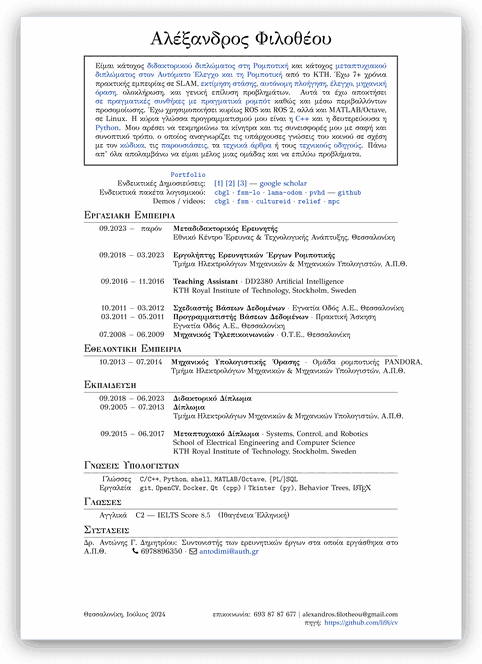
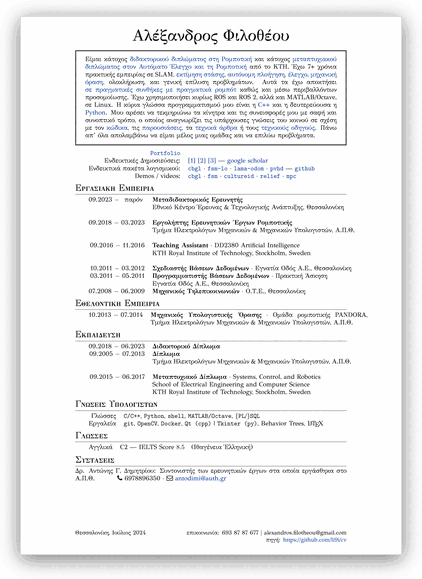
Decrease thumbnail size

Changed region(s): [[0.0308, 0.0, 0.955, 0.9637]]

diff --git a/README.md b/README.md
@@ -9,21 +9,21 @@ Table of Contents
   <tr>
     <td align="center" width="33%">
       <a href="https://docs.google.com/viewerng/viewer?url=https://raw.githubusercontent.com/li9i/CV/master/calling-card/cv_card_alexandros_filotheou.pdf">
-        <img src="assets/thumbnails/calling-card.png" width="241" alt="Calling card, one page">
+        <img src="assets/thumbnails/calling-card.png" width="211" alt="Calling card, one page">
       </a><br>
       <b>Calling-card</b><br>
       <sub>English &middot; 1 page</sub>
     </td>
     <td align="center" width="33%">
       <a href="https://docs.google.com/viewerng/viewer?url=https://raw.githubusercontent.com/li9i/CV/master/compact/cv_compact_alexandros_filotheou.pdf">
-        <img src="assets/thumbnails/compact.png" width="241" alt="Compact CV, one page">
+        <img src="assets/thumbnails/compact.png" width="211" alt="Compact CV, one page">
       </a><br>
       <b>Compact</b><br>
       <sub>English &middot; 1 page</sub>
     </td>
     <td align="center" width="33%">
       <a href="https://docs.google.com/viewerng/viewer?url=https://raw.githubusercontent.com/li9i/CV/master/extended/cv_extended_alexandros_filotheou.pdf">
-        <img src="assets/thumbnails/extended.png" width="249" alt="Extended CV, eight pages">
+        <img src="assets/thumbnails/extended.png" width="219" alt="Extended CV, eight pages">
       </a><br>
       <b>Extended</b><br>
       <sub>English &middot; 8 pages</sub>
@@ -33,14 +33,14 @@ Table of Contents
     <td width="33%"></td>
     <td align="center" width="33%">
       <a href="https://docs.google.com/viewerng/viewer?url=https://raw.githubusercontent.com/li9i/CV/master/%CF%83%CF%8D%CE%BD%CF%84%CE%BF%CE%BC%CE%BF/cv_compact_alexandros_filotheou.pdf">
-        <img src="assets/thumbnails/syntomo.png" width="241" alt="Compact CV in Greek, one page">
+        <img src="assets/thumbnails/syntomo.png" width="211" alt="Compact CV in Greek, one page">
       </a><br>
       <b>Μονοσέλιδο</b><br>
       <sub>Ελληνικά &middot; 1 σελίδα</sub>
     </td>
     <td align="center" width="33%">
       <a href="https://docs.google.com/viewerng/viewer?url=https://raw.githubusercontent.com/li9i/CV/master/%CE%B1%CE%BD%CE%B1%CE%BB%CF%85%CF%84%CE%B9%CE%BA%CF%8C/cv_extended_alexandros_filotheou.pdf">
-        <img src="assets/thumbnails/analytiko.png" width="249" alt="Extended CV in Greek, eight pages">
+        <img src="assets/thumbnails/analytiko.png" width="219" alt="Extended CV in Greek, eight pages">
       </a><br>
       <b>Αναλυτικό</b><br>
       <sub>Ελληνικά &middot; 8 σελίδες</sub>
